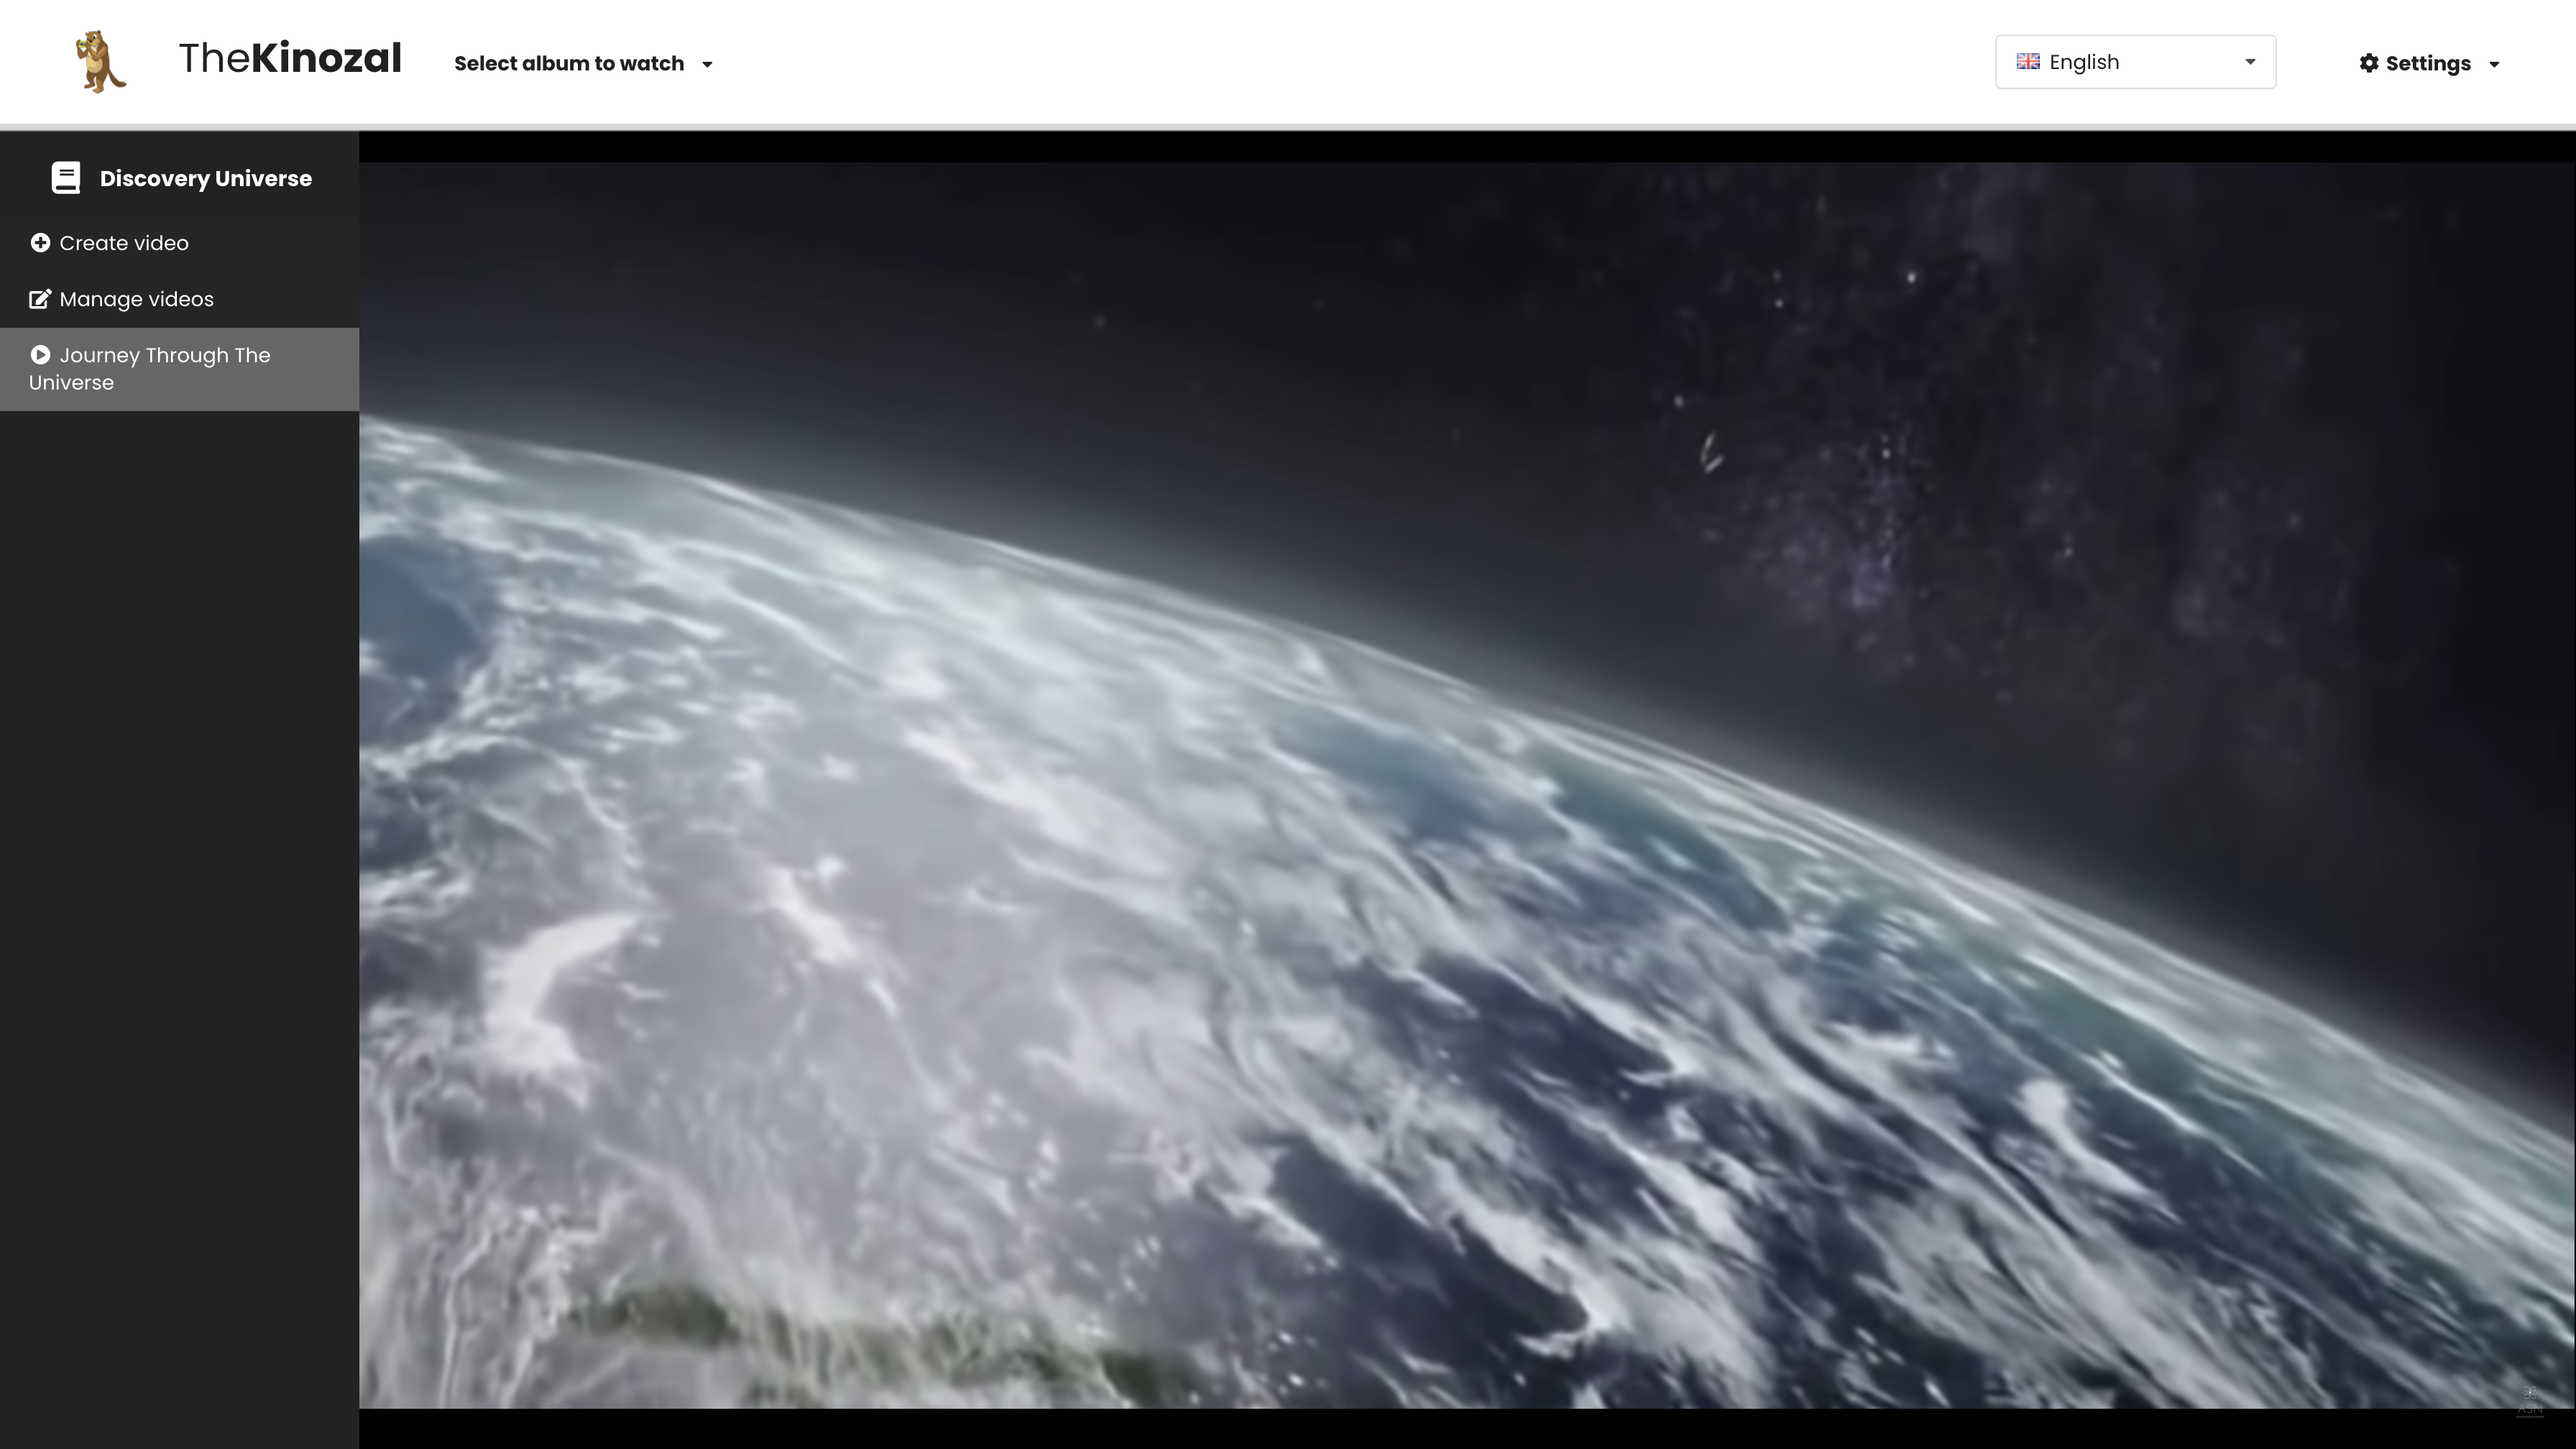
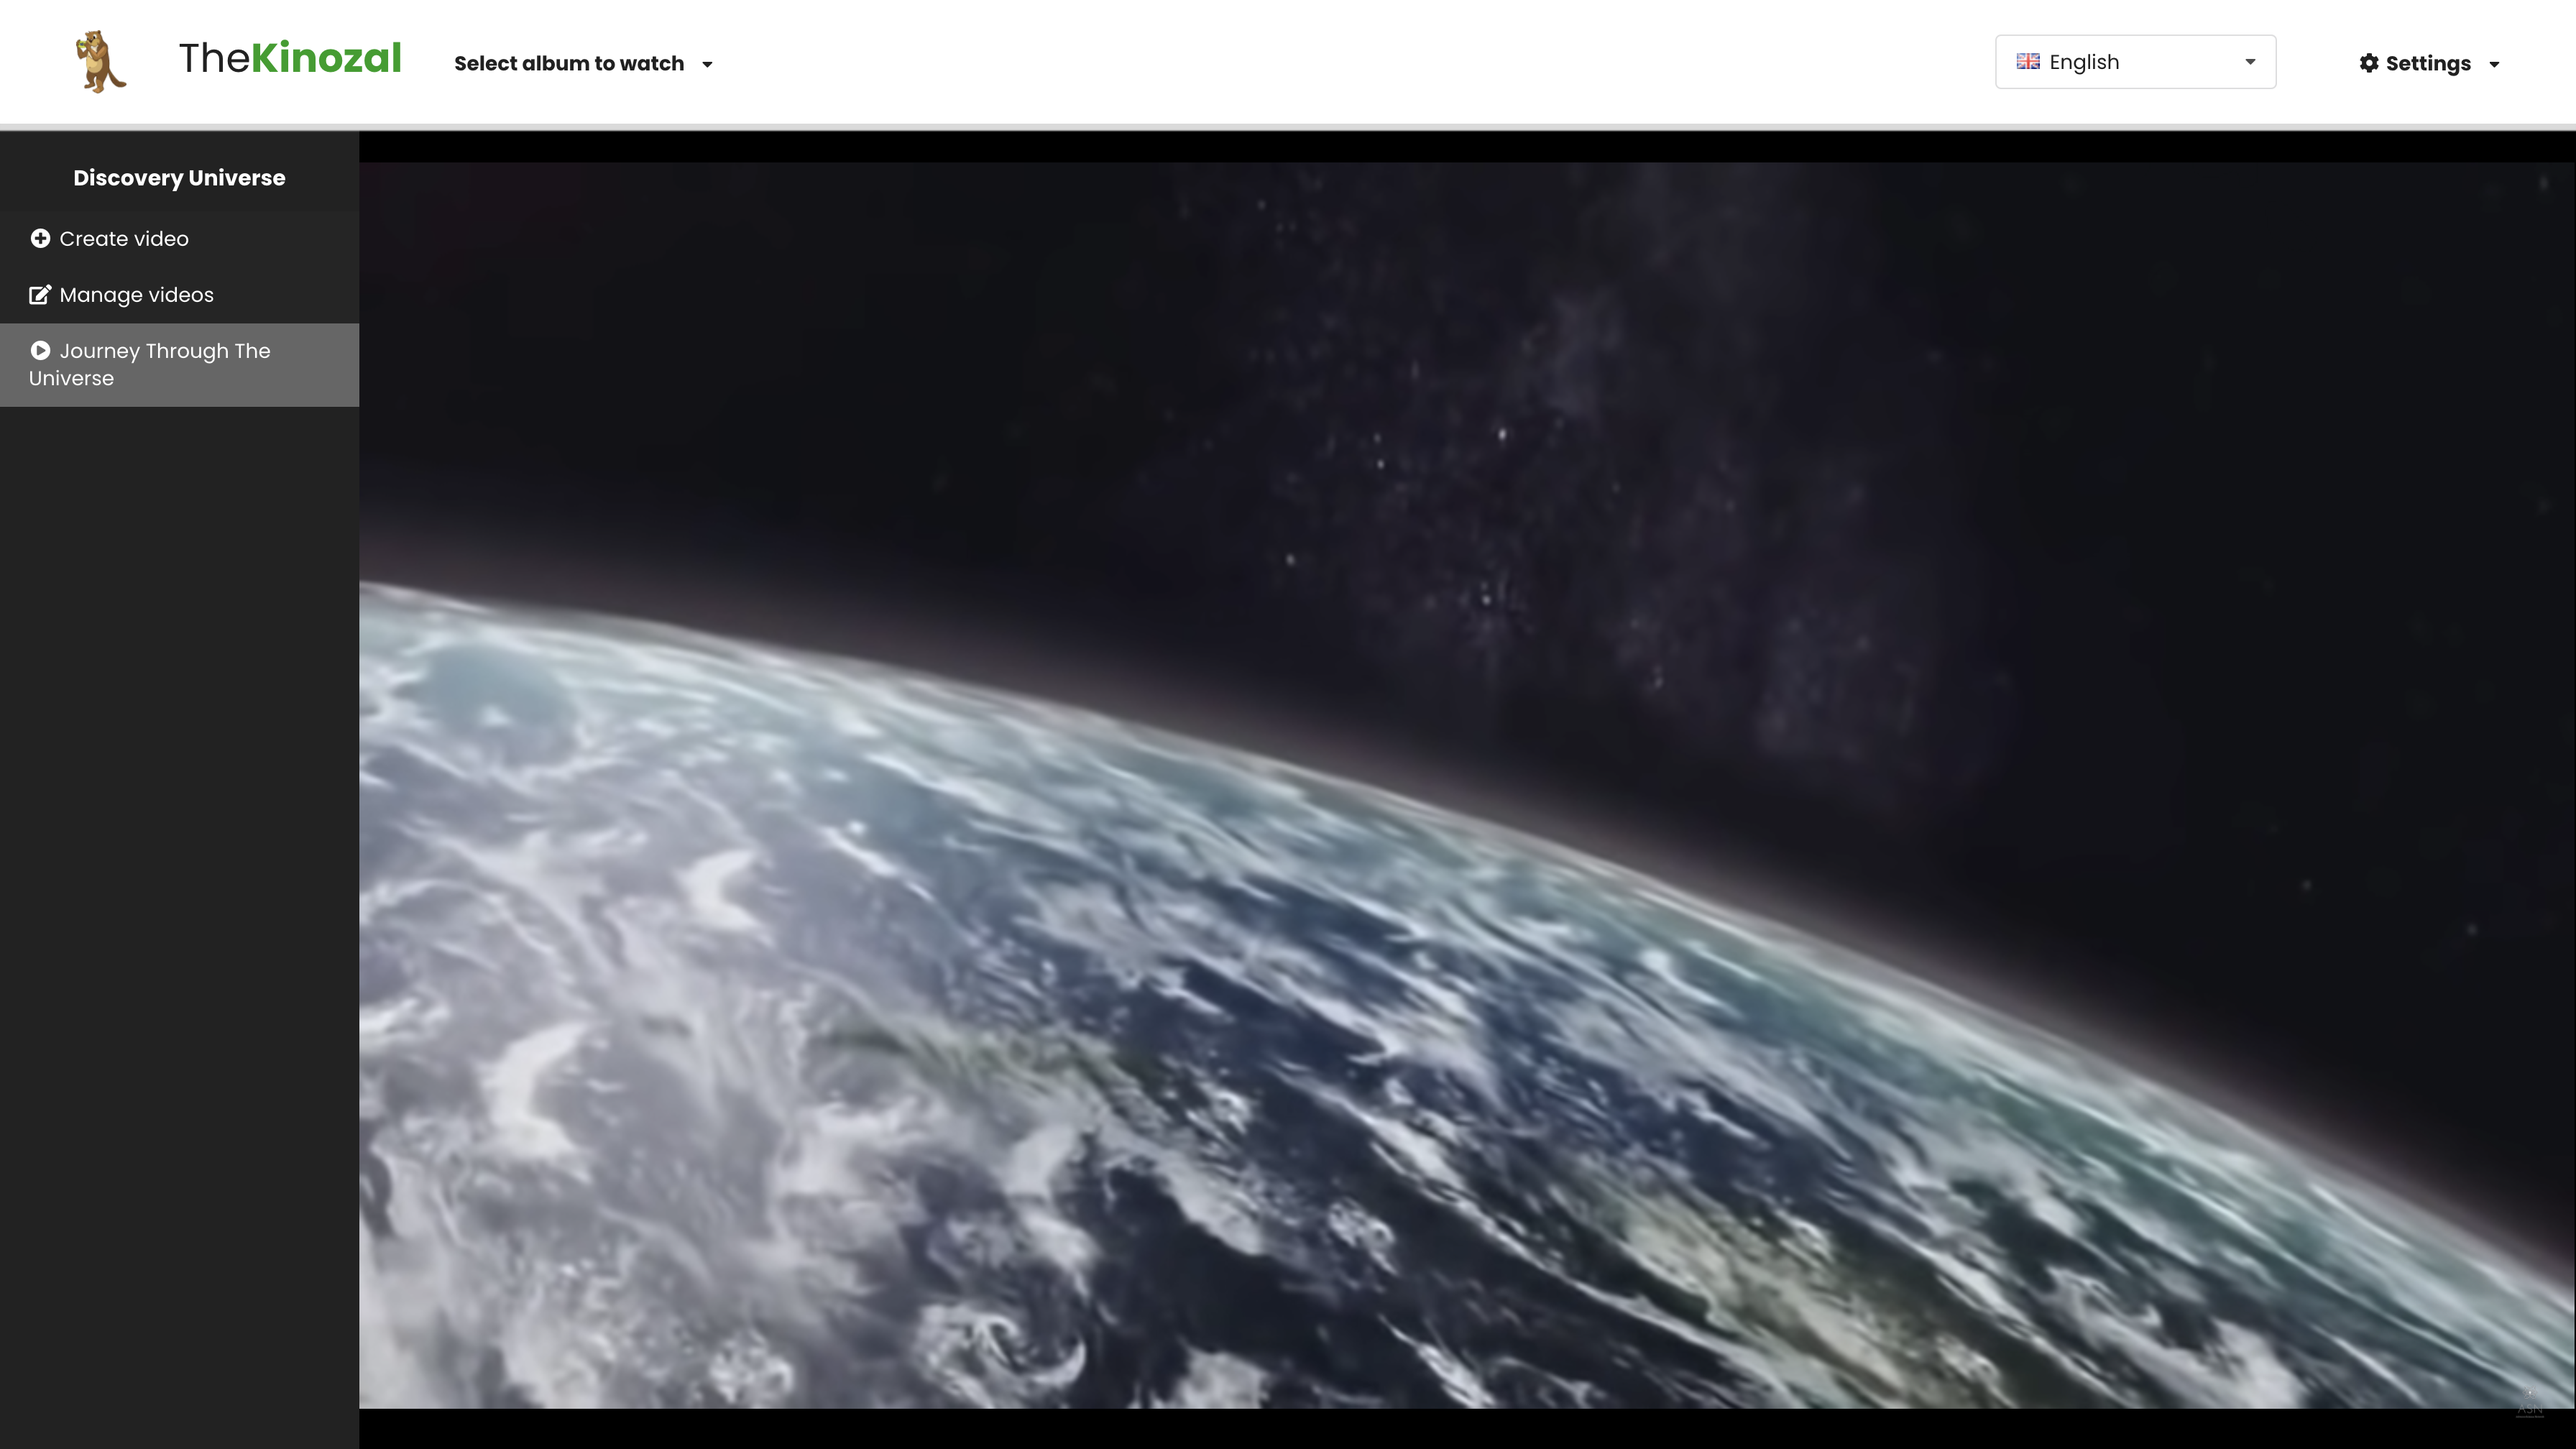
Added third color

diff --git a/frontend/src/styles/index.scss b/frontend/src/styles/index.scss
@@ -1,4 +1,5 @@
 @import './mixins.scss';
+@import './variables.scss';
 @import url('https://fonts.googleapis.com/css2?family=Poppins:ital,wght@0,200;0,400;0,700;1,200;1,400;1,700&display=swap');
 
 body {
@@ -22,7 +23,7 @@ body {
 
 	&:hover {
 		top: 3px;
-		border-bottom: 2px solid black;
+		border-bottom: 2px solid $primary;
 	}
 }
 
@@ -36,6 +37,22 @@ body {
 	font-size: 12px;
 	color: #555555;
 	padding: 10px 0;
+}
+
+.button.primary {
+	background-color: $primary !important;
+	color: rgba(0, 0, 0, 0.6) !important;
+
+	&:hover {
+		background-color: $dark-primary !important;
+		color: rgba(0, 0, 0, 0.8) !important;
+	}
+}
+
+.field:not(.error) > .ui.input > input:focus,
+.ui.selection.active.dropdown,
+.ui.selection.active.dropdown .menu {
+	border-color: $primary !important;
 }
 
 #root,

diff --git a/frontend/src/containers/Header/index.tsx b/frontend/src/containers/Header/index.tsx
@@ -35,7 +35,7 @@ const Header: React.FC = () => {
 					<Menu.Item>
 						<HeaderUI as="h1">
 							<span className={styles.normal}>The</span>
-							Kinozal
+							<span className={styles.coloredText}>Kinozal</span>
 						</HeaderUI>
 					</Menu.Item>
 				</Menu.Menu>

diff --git a/frontend/src/containers/Header/header.module.scss b/frontend/src/containers/Header/header.module.scss
@@ -1,5 +1,11 @@
+@import '../../styles/variables.scss';
+
 .normal {
 	font-weight: normal;
+}
+
+.coloredText {
+	color: darken($color: $primary, $amount: 10);
 }
 
 .header {

diff --git a/frontend/src/styles/variables.scss b/frontend/src/styles/variables.scss
@@ -1,1 +1,3 @@
 $body-bg: #fafafacc;
+$primary: #00d220;
+$dark-primary: #00b200;
